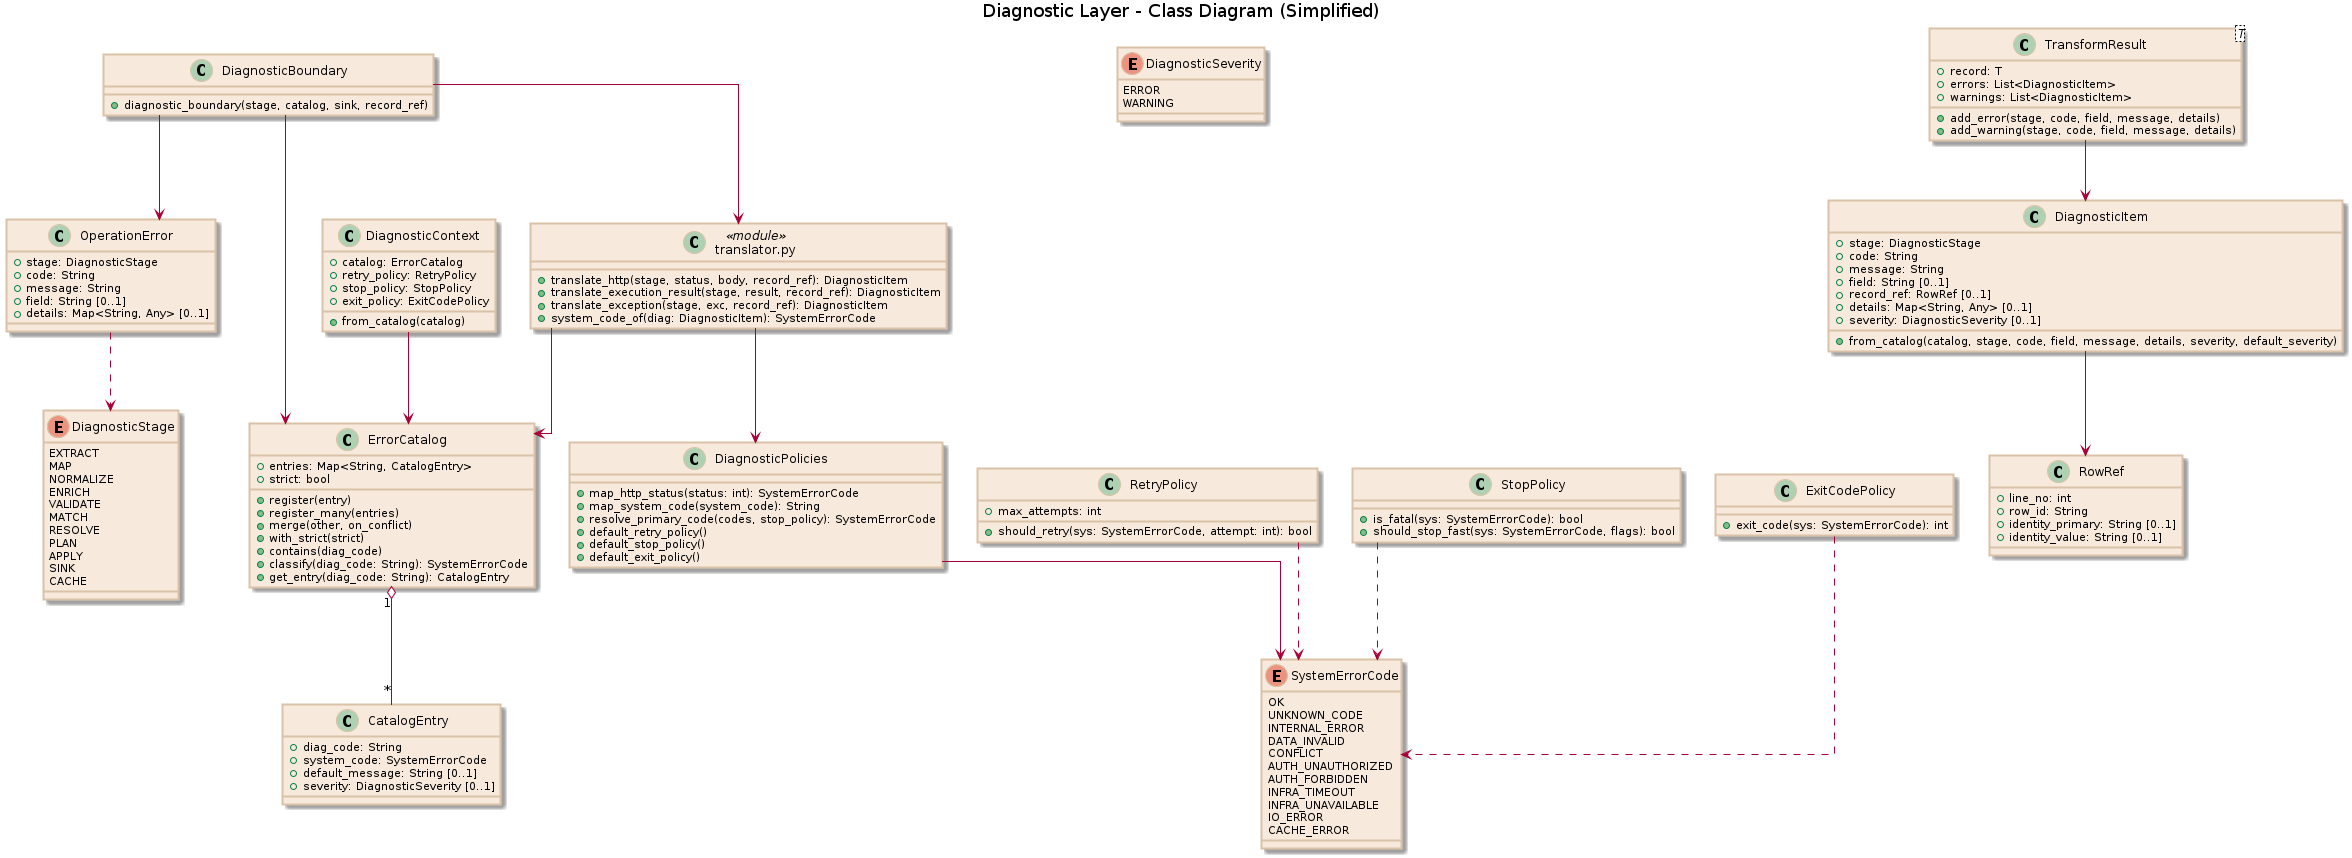
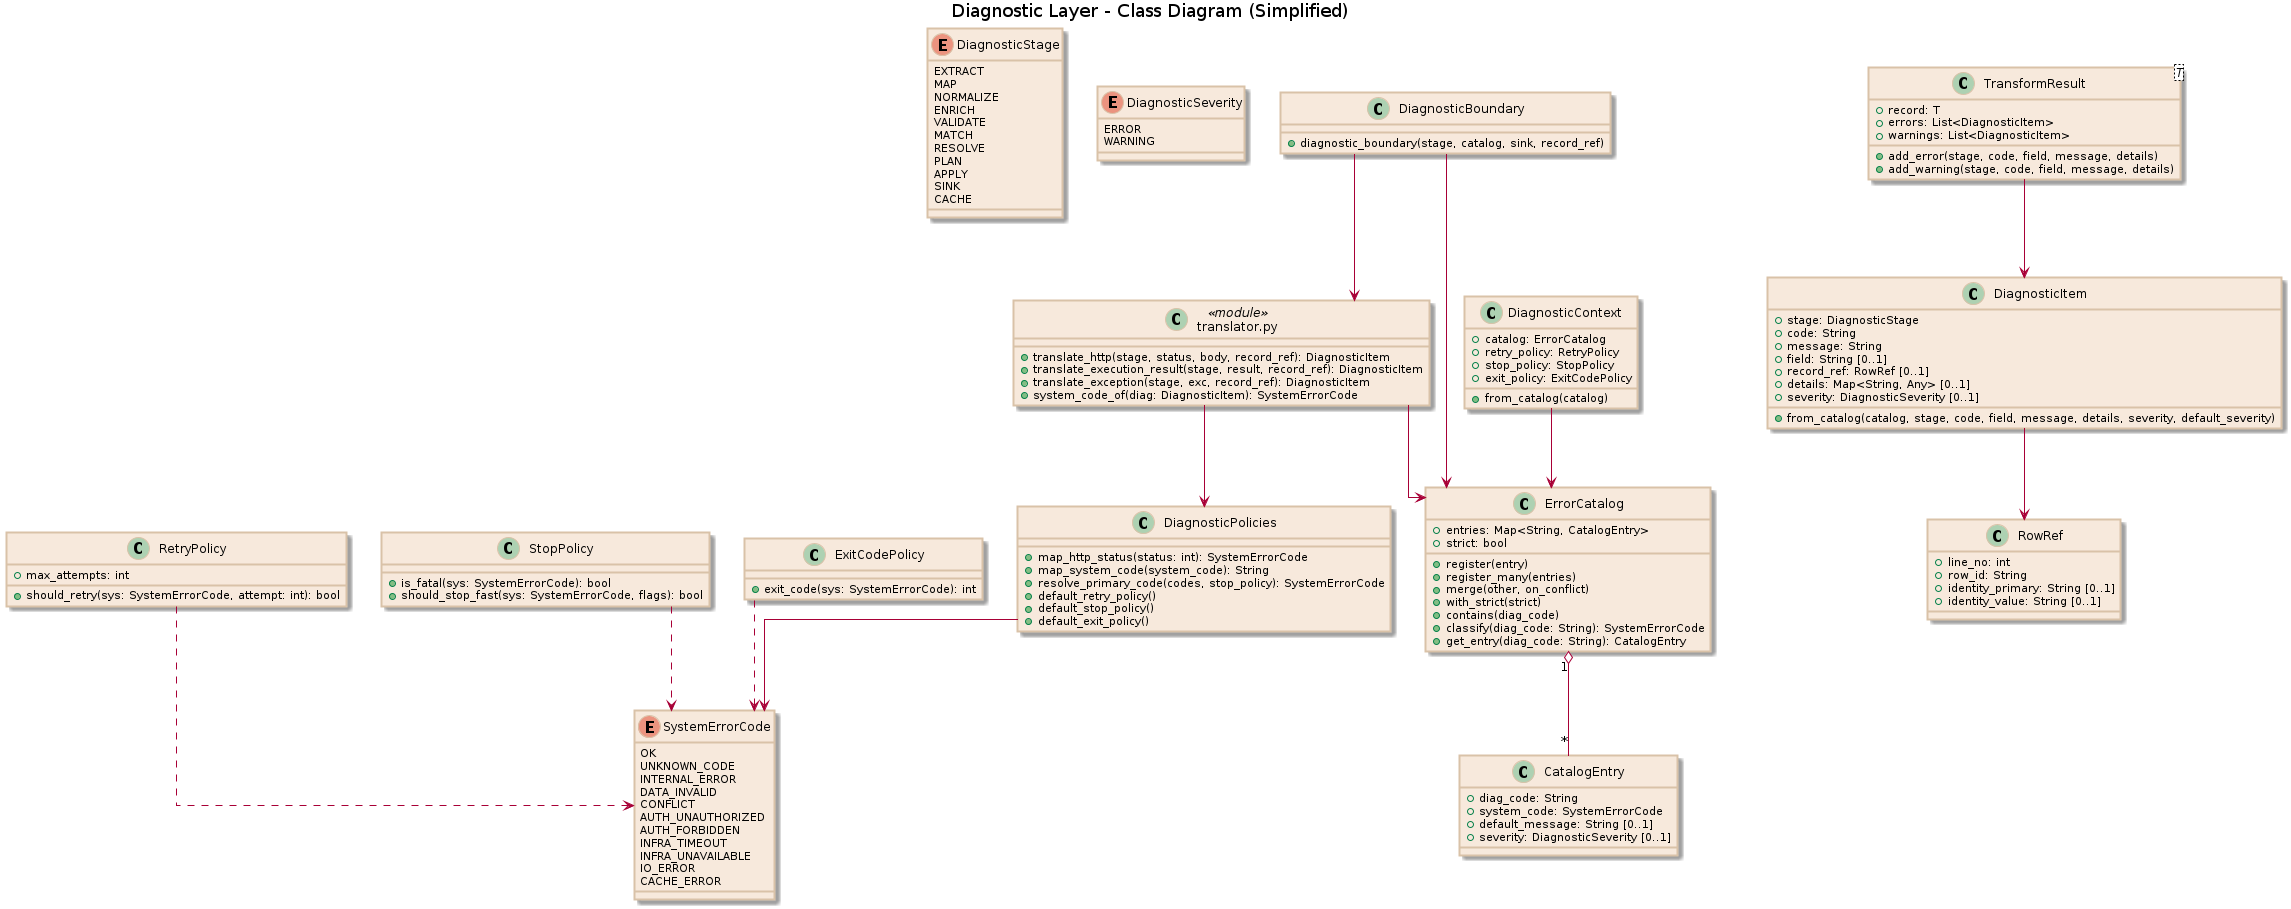
Completely removed OperationError and EnrichOperationError, boundary now catches only unexpected exceptions

diff --git a/connector/domain/transform/enricher.py b/connector/domain/transform/enricher.py
@@ -172,17 +172,16 @@ class EnrichContext:
     as_of: Any | None = None
 
 
-class EnrichOperationError(Exception):
+@dataclass(frozen=True)
+class _EnrichOpError:
     """
     Назначение:
-        Управляемая ошибка внутри операции enrich с кодом.
+        Внутреннее представление ошибки операции enrich без исключений.
     """
 
-    def __init__(self, code: str, message: str, field: str | None = None) -> None:
-        super().__init__(message)
-        self.code = code
-        self.message = message
-        self.field = field
+    code: str
+    message: str
+    field: str | None = None
 
 
 class CandidateProvider(Protocol, Generic[T, D]):
@@ -460,27 +459,26 @@ class Enricher(Generic[T, D]):
                 message="required key is missing",
             )
 
-        try:
-            candidates = self._collect_candidates(ctx, result, op, key_values)
-        except EnrichOperationError as exc:
+        candidates, op_error = self._collect_candidates(ctx, result, op, key_values)
+        if op_error is not None:
             return self._report_by_policy(
                 result=result,
                 op=op,
                 outcome=strictness.on_provider_error,
-                code=exc.code,
-                message=exc.message,
-                field=exc.field,
+                code=op_error.code,
+                message=op_error.message,
+                field=op_error.field,
             )
-        except Exception as exc:  # noqa: BLE001
-            return self._report_by_policy(
-                result=result,
-                op=op,
-                outcome=strictness.on_provider_error,
-                code="ENRICH_PROVIDER_ERROR",
-                message=str(exc),
-            )
-
         if not candidates:
+            if op.op_type == EnrichOperationType.COMPUTE and op.missing_error_code:
+                return self._report_by_policy(
+                    result=result,
+                    op=op,
+                    outcome=strictness.on_provider_error,
+                    code=op.missing_error_code,
+                    message="computed value is missing",
+                    field=op.error_field,
+                )
             return self._report_by_policy(
                 result=result,
                 op=op,
@@ -525,16 +523,23 @@ class Enricher(Generic[T, D]):
         result: TransformResult[T],
         op: EnrichmentOperation[T, D],
         key_values: dict[str, Any],
-    ) -> list[CandidateValue]:
+    ) -> tuple[list[CandidateValue], _EnrichOpError | None]:
         if op.op_type == EnrichOperationType.COMPUTE:
             if op.compute is None:
-                return []
-            values = op.compute(result, self.deps)
+                return [], None
+            try:
+                values = op.compute(result, self.deps)
+            except Exception as exc:  # noqa: BLE001
+                return [], _EnrichOpError(
+                    code="ENRICH_PROVIDER_ERROR",
+                    message=str(exc),
+                    field=op.error_field,
+                )
             if not values:
-                return []
+                return [], None
             target = op.targets[0]
             if target not in values:
-                return []
+                return [], None
             return [
                 CandidateValue(
                     field=target,
@@ -542,7 +547,7 @@ class Enricher(Generic[T, D]):
                     source="computed",
                     priority=self._priority_for("computed"),
                 )
-            ]
+            ], None
         if op.op_type == EnrichOperationType.GENERATE:
             return self._generate_candidates(result, op)
 
@@ -553,7 +558,7 @@ class Enricher(Generic[T, D]):
             if fetched:
                 for candidate in fetched:
                     if candidate.field != target:
-                        raise EnrichOperationError(
+                        return [], _EnrichOpError(
                             code="ENRICH_TARGET_MISMATCH",
                             message="candidate field does not match operation target",
                             field=candidate.field,
@@ -568,27 +573,27 @@ class Enricher(Generic[T, D]):
                             evidence=candidate.evidence,
                         )
                     candidates.append(candidate)
-        return candidates
+        return candidates, None
 
     def _generate_candidates(
         self,
         result: TransformResult[T],
         op: EnrichmentOperation[T, D],
-    ) -> list[CandidateValue]:
+    ) -> tuple[list[CandidateValue], _EnrichOpError | None]:
         if op.generator is None:
-            return []
+            return [], None
         attempts = 0
         max_attempts = max(1, op.max_attempts)
         while attempts < max_attempts:
             candidate = op.generator(result, self.deps)
             if candidate is None or candidate == "":
                 if op.missing_error_code:
-                    raise EnrichOperationError(
+                    return [], _EnrichOpError(
                         code=op.missing_error_code,
                         message="required value is missing",
                         field=op.error_field,
                     )
-                return []
+                return [], None
             if op.postprocess is not None:
                 candidate = op.postprocess(candidate)
             if op.exists is not None:
@@ -602,7 +607,7 @@ class Enricher(Generic[T, D]):
                                 source="generated",
                                 priority=self._priority_for("generated"),
                             )
-                        ]
+                        ], None
                     candidate = None
                     attempts += 1
                     continue
@@ -613,14 +618,14 @@ class Enricher(Generic[T, D]):
                     source="generated",
                     priority=self._priority_for("generated"),
                 )
-            ]
+            ], None
         if op.conflict_error_code:
-            raise EnrichOperationError(
+            return [], _EnrichOpError(
                 code=op.conflict_error_code,
                 message="unable to generate unique value",
                 field=op.error_field,
             )
-        return []
+        return [], None
 
     def _apply_candidates(
         self,
@@ -835,5 +840,4 @@ __all__ = [
     "EnrichEvent",
     "OperationReport",
     "KeyRegistry",
-    "EnrichOperationError",
 ]

diff --git a/connector/domain/diagnostics/boundary.py b/connector/domain/diagnostics/boundary.py
@@ -3,8 +3,8 @@ from __future__ import annotations
 from contextlib import contextmanager
 from typing import Iterator
 
-from connector.domain.diagnostics.catalog import ErrorCatalog, build_error
-from connector.domain.diagnostics.exceptions import OperationError, UnknownDiagnosticCodeError
+from connector.domain.diagnostics.catalog import ErrorCatalog
+from connector.domain.diagnostics.exceptions import UnknownDiagnosticCodeError
 from connector.domain.diagnostics.translator import translate_exception
 from connector.domain.models import DiagnosticStage, RowRef
 
@@ -21,24 +21,11 @@ def diagnostic_boundary(
         Boundary для единообразной обработки ошибок и преобразования их в DiagnosticItem.
 
     Контракт:
-        - OperationError превращается в DiagnosticItem через ErrorCatalog.
         - Неожиданные исключения преобразуются translator-функциями.
         - Все созданные диагностические события добавляются в sink.
     """
     try:
         yield
-    except OperationError as exc:
-        sink.append(
-            build_error(
-                catalog=catalog,
-                stage=exc.stage,
-                code=exc.code,
-                field=exc.field,
-                message=exc.message,
-                record_ref=exc.record_ref,
-                details=exc.details,
-            )
-        )
     except UnknownDiagnosticCodeError:
         # В strict-режиме неизвестный код должен падать, а не маскироваться.
         raise

diff --git a/connector/domain/diagnostics/exceptions.py b/connector/domain/diagnostics/exceptions.py
@@ -2,8 +2,6 @@ from __future__ import annotations
 
 from dataclasses import dataclass
 
-from connector.domain.models import DiagnosticStage, RowRef
-
 
 class UnknownDiagnosticCodeError(ValueError):
     """
@@ -24,21 +22,6 @@ class DiagnosticContextNotConfiguredError(RuntimeError):
 
     def __init__(self) -> None:
         super().__init__("DiagnosticContext is not configured. Call diagnostics.configure(...) first.")
-
-
-@dataclass
-class OperationError(Exception):
-    """
-    Назначение:
-        Управляемое исключение, конвертируемое в DiagnosticItem на boundary.
-    """
-
-    stage: DiagnosticStage
-    code: str
-    message: str
-    field: str | None = None
-    record_ref: RowRef | None = None
-    details: dict | None = None
 
 
 @dataclass

diff --git a/connector/datasets/employees/transform/enricher_spec.py b/connector/datasets/employees/transform/enricher_spec.py
@@ -4,7 +4,6 @@ import uuid
 from dataclasses import dataclass
 
 from connector.domain.transform.enricher import (
-    EnrichOperationError,
     EnrichOperationType,
     EnrichOutcome,
     EnricherSpec,
@@ -31,11 +30,7 @@ def _build_match_key(result, deps) -> dict[str, str] | None:
     try:
         match_key = build_delimited_match_key(spec.get_match_key_parts(result.row), strict=True)
     except MatchKeyError as exc:
-        raise EnrichOperationError(
-            code="MATCH_KEY_MISSING",
-            message="match_key cannot be built",
-            field="matchKey",
-        ) from exc
+        return None
     return {"match_key": match_key.value}
 
 
@@ -68,11 +63,7 @@ def _target_id_generator(result, deps) -> str | None:
             return candidate
     if policy.generator is None:
         if policy.mode == TargetIdMode.REQUIRED:
-            raise EnrichOperationError(
-                code="TARGET_ID_MISSING",
-                message="target_id is required",
-                field=policy.field_name,
-            )
+            return None
         return None
     return policy.generator()
 
@@ -130,6 +121,8 @@ class EmployeesEnricherSpec(EnricherSpec[NormalizedEmployeesRow, EmployeesEnrich
             run_when_errors=RunWhenErrors.ALWAYS,
             strictness=StrictnessPolicy(on_provider_error=EnrichOutcome.FAILED),
             compute=_build_match_key,
+            missing_error_code="MATCH_KEY_MISSING",
+            error_field="matchKey",
         ),
         EnrichmentOperation(
             name="target_id",

diff --git a/connector/domain/diagnostics/__init__.py b/connector/domain/diagnostics/__init__.py
@@ -2,7 +2,7 @@ from connector.domain.diagnostics.catalog import CatalogEntry, ErrorCatalog, bui
 from connector.domain.diagnostics.core_catalog import build_core_catalog
 from connector.domain.diagnostics.context import DiagnosticContext, configure, error, get_catalog, warning
 from connector.domain.diagnostics.command_result import CommandResult
-from connector.domain.diagnostics.exceptions import OperationError, UnknownDiagnosticCodeError
+from connector.domain.diagnostics.exceptions import UnknownDiagnosticCodeError
 from connector.domain.diagnostics.catalog import build_error, build_warning
 from connector.domain.diagnostics.policies import (
     ExitCodePolicy,
@@ -19,7 +19,6 @@ __all__ = [
     "ErrorCatalog",
     "build_catalog",
     "build_core_catalog",
-    "OperationError",
     "UnknownDiagnosticCodeError",
     "DiagnosticContext",
     "configure",

diff --git a/connector/domain/transform/__init__.py b/connector/domain/transform/__init__.py
@@ -4,7 +4,6 @@ from .normalizer import Normalizer, NormalizerRule, NormalizerSpec
 from .enricher import (
     EnrichContext,
     EnrichEvent,
-    EnrichOperationError,
     EnrichOperationType,
     EnrichOutcome,
     Enricher,
@@ -34,7 +33,6 @@ __all__ = [
     "Enricher",
     "EnrichContext",
     "EnrichEvent",
-    "EnrichOperationError",
     "EnrichOperationType",
     "EnrichOutcome",
     "Enricher",